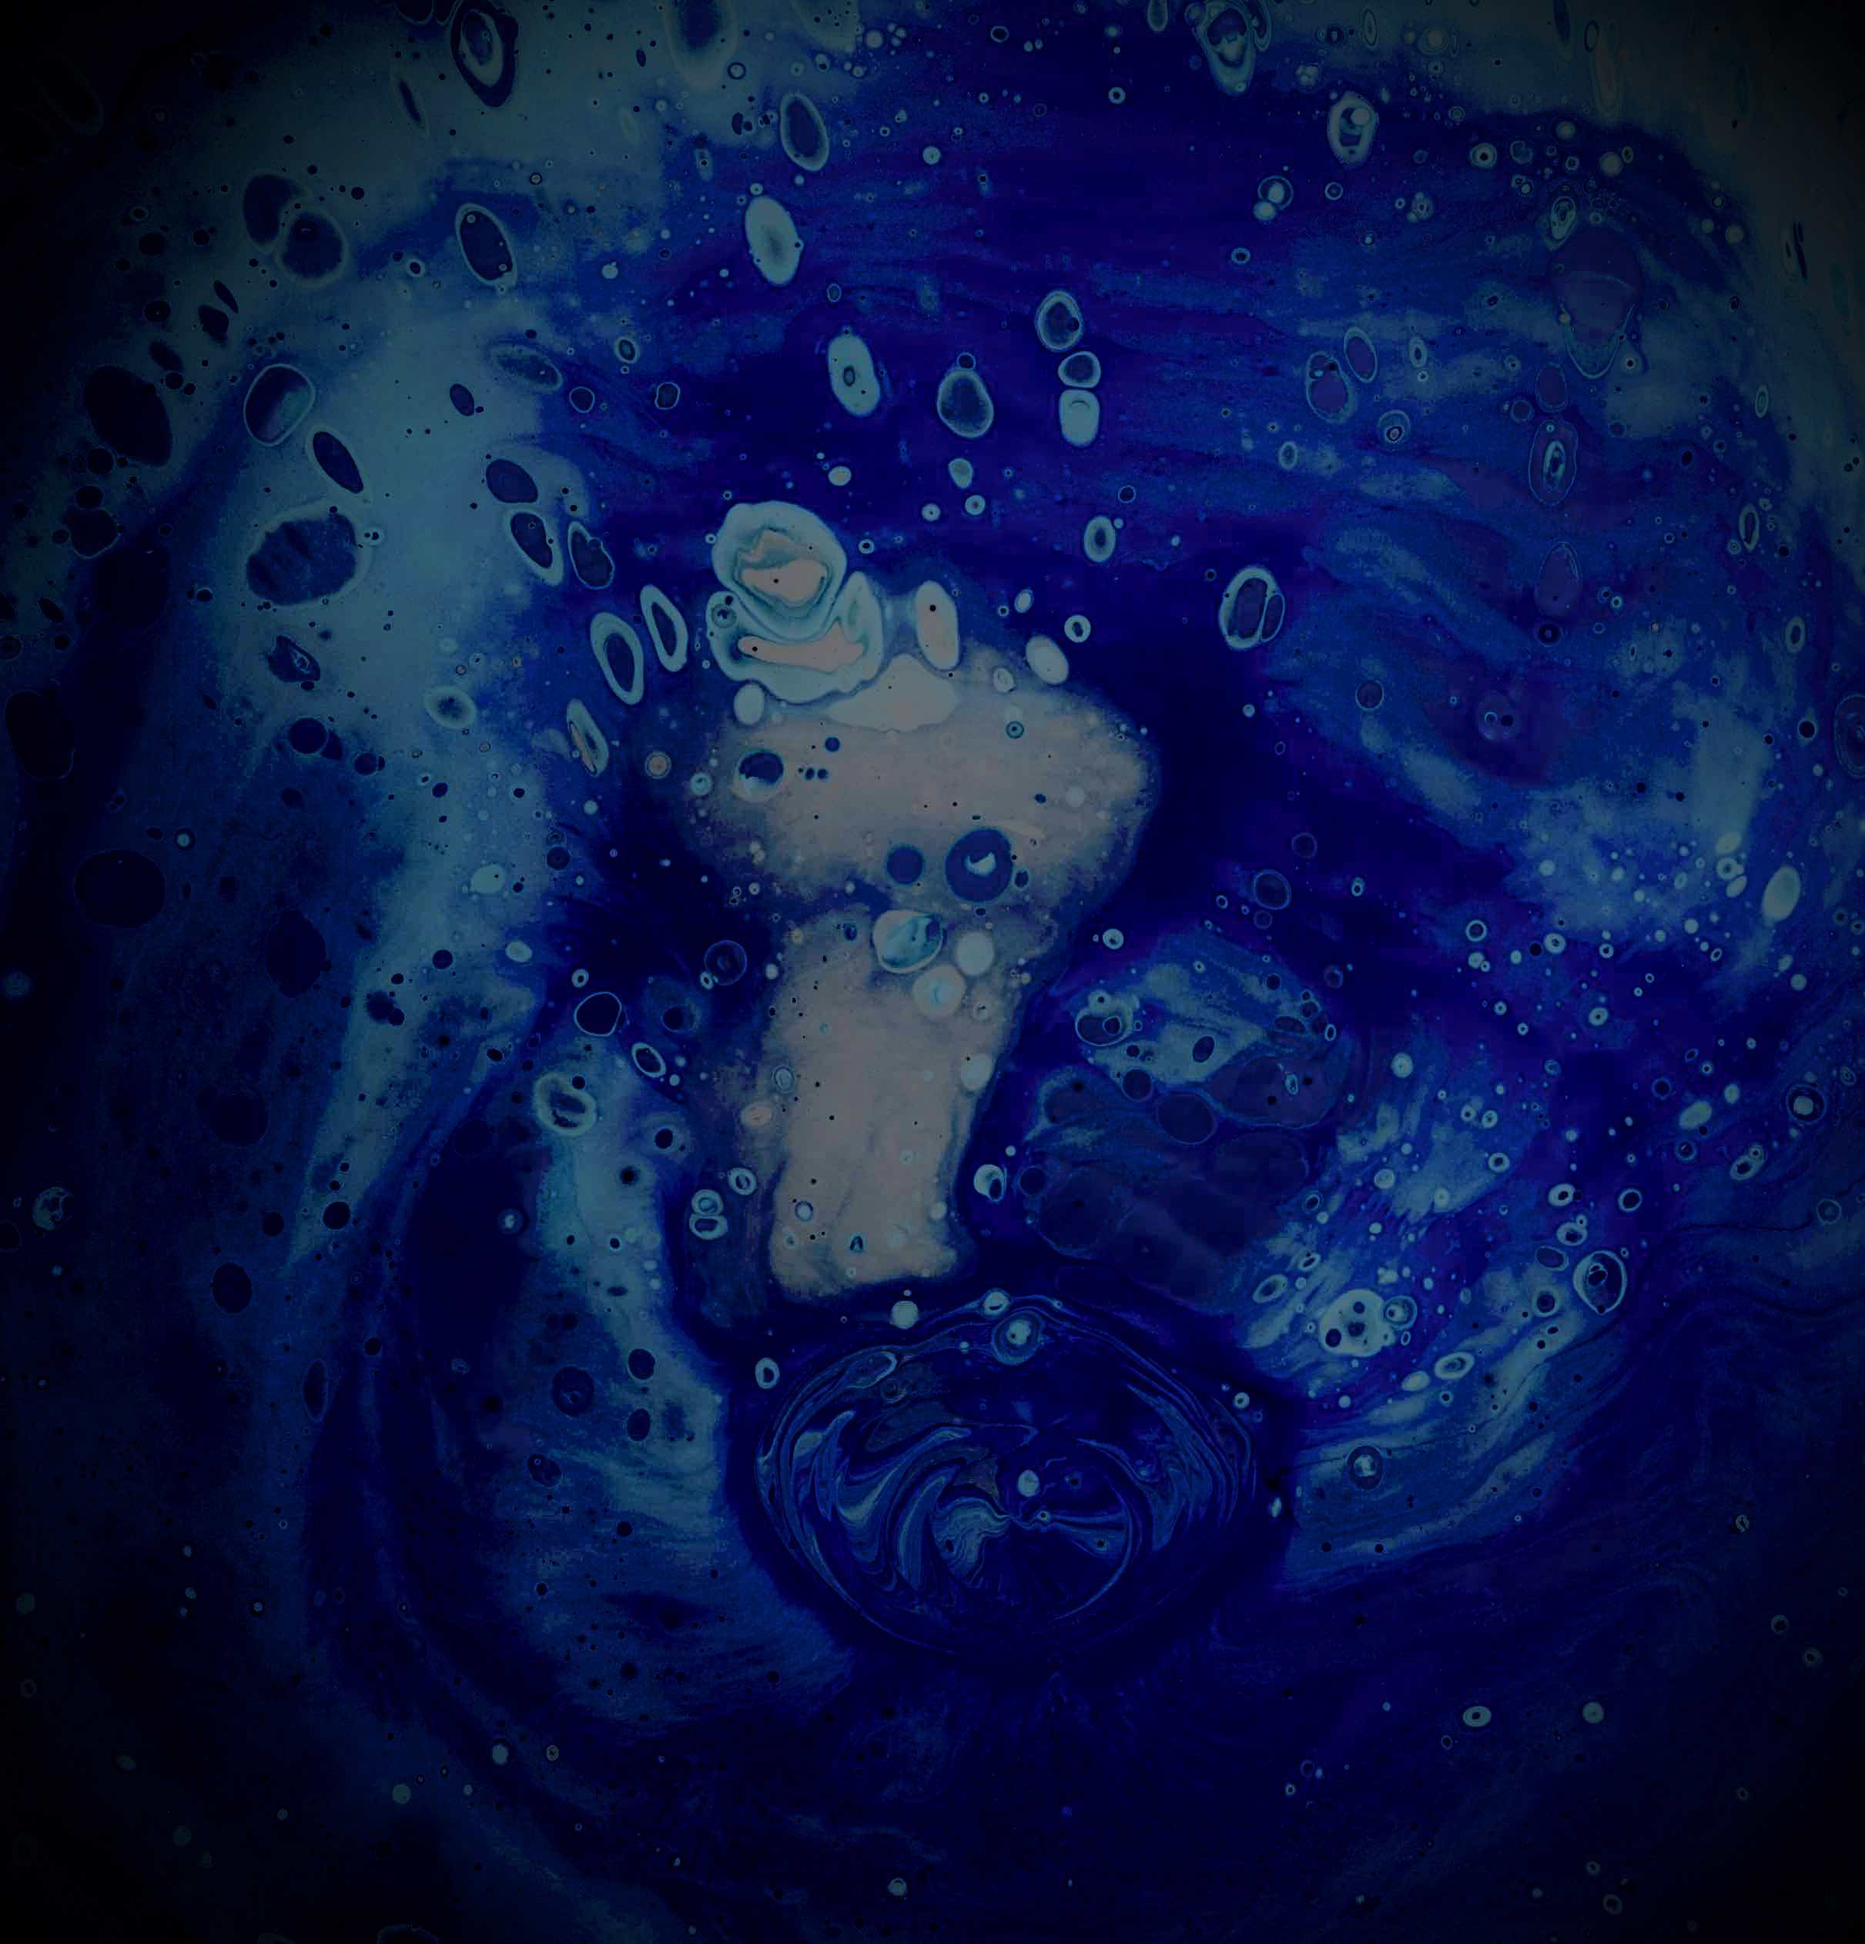
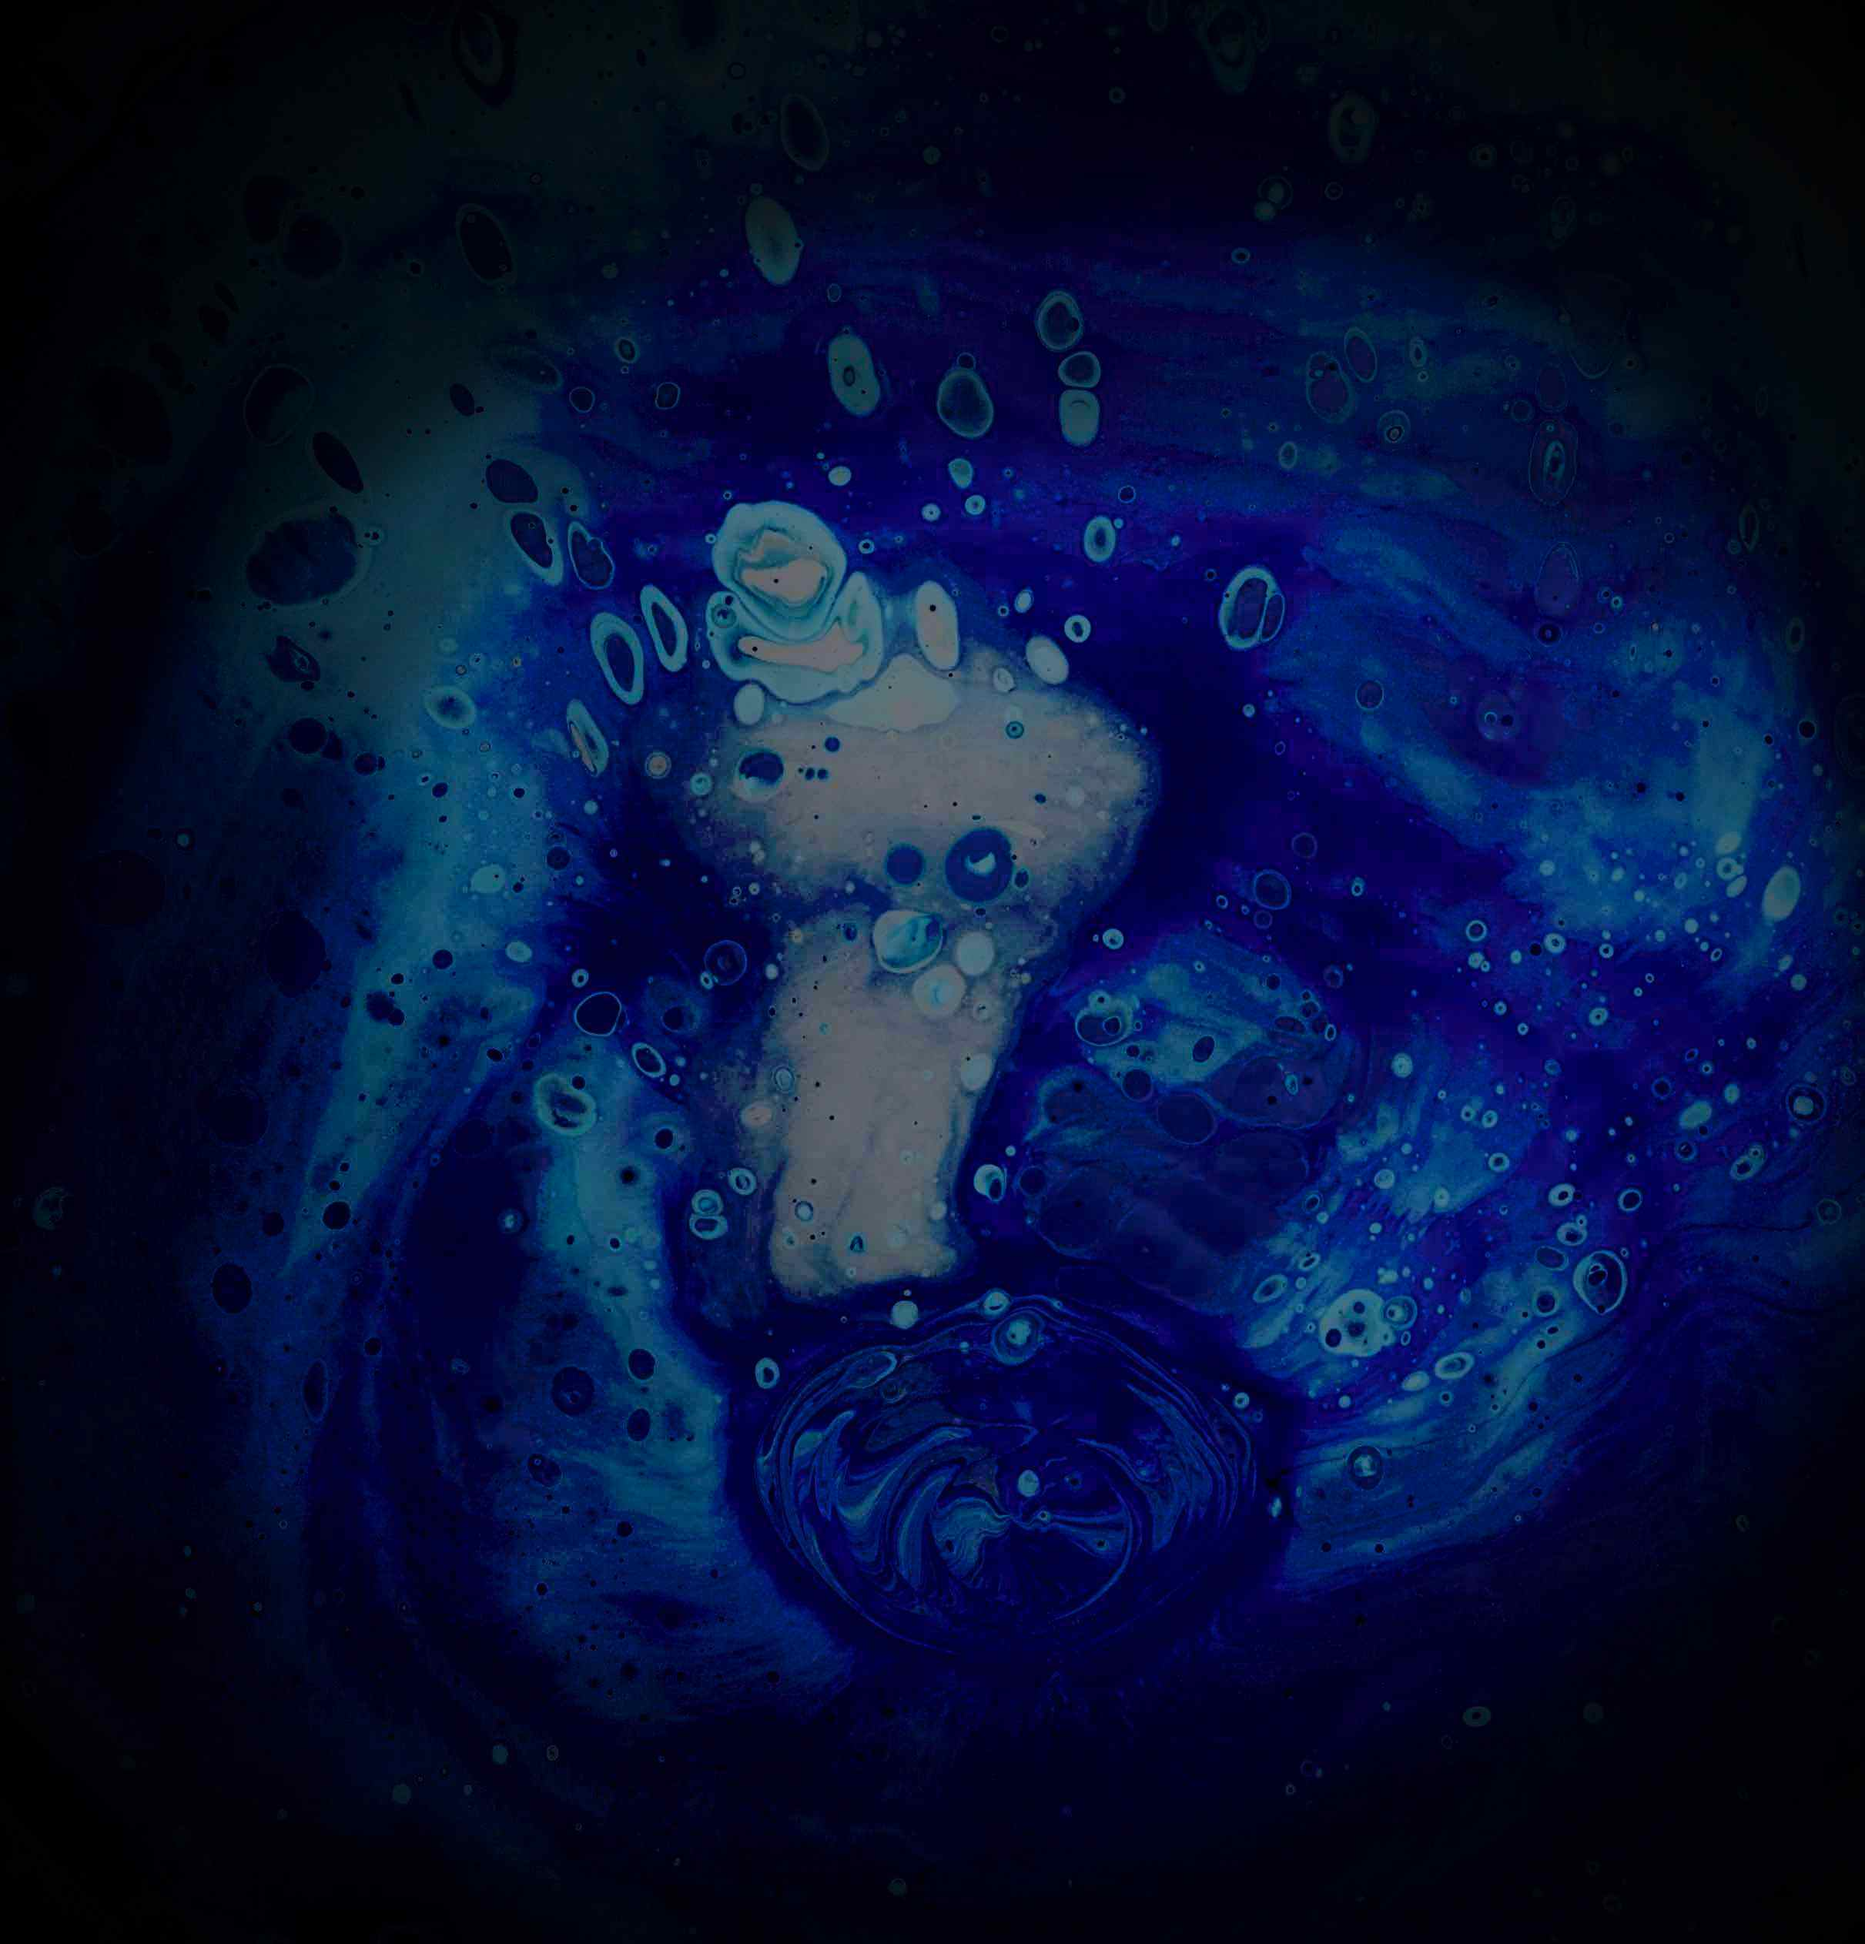
shading to images

diff --git a/assets/css/main.css b/assets/css/main.css
@@ -2924,7 +2924,7 @@ button:disabled,
 	display: block;
 	height: 100%;
 	left: 0;
-	opacity: 0.95;
+	opacity: 1;
 	position: absolute;
 	width: 100%;
 	z-index: 2;
@@ -2965,25 +2965,25 @@ button:disabled,
 
 .tiles article:nth-child(6n - 5):before {
 	/*background-color: #87c5a4;*/
-	background-image: url("cssImages/green2.jpg");
+	background-image: url("cssImages/green3.jpg");
 	background-size: 130%;
 }
 
 .tiles article:nth-child(6n - 4):before {
 	/*background-color: ##8d82c4*/
-	background-image: url("cssImages/moon3.jpg");
+	background-image: url("cssImages/moon4.jpg");
 	background-size: 105%;
 }
 
 .tiles article:nth-child(6n - 3):before {
 	/*background-color: ##ec8d81*/
-	background-image: url("cssImages/purple.jpg");
+	background-image: url("cssImages/purple2.jpg");
 	background-size: 100%;
 }
 
 .tiles article:nth-child(6n - 2):before {
 	/*background-color: ##e7b788;*/
-	background-image: url("cssImages/planet2.jpg");
+	background-image: url("cssImages/planet3.jpg");
 	background-size: 100%;
 }
 
